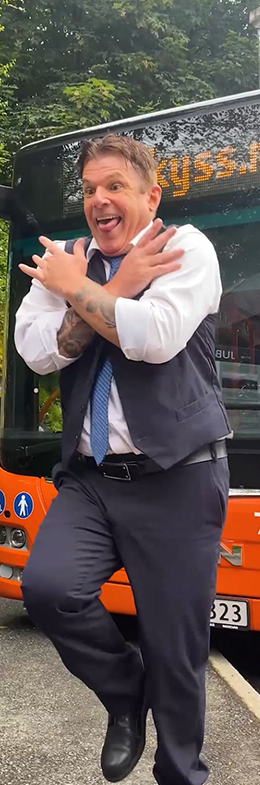
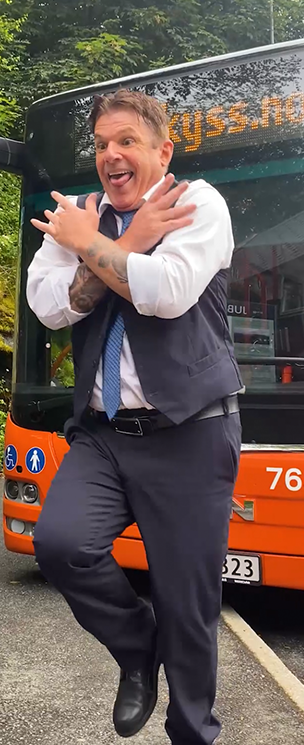
Om Rob: mer luft pa sidene, mindre over hodet

diff --git a/om.html b/om.html
@@ -18,7 +18,7 @@
   <link rel="preconnect" href="https://fonts.googleapis.com" />
   <link rel="preconnect" href="https://fonts.gstatic.com" crossorigin />
   <link href="https://fonts.googleapis.com/css2?family=Anton&family=Inter:wght@400;500;600;700;800&display=swap" rel="stylesheet" />
-  <link rel="stylesheet" href="styles.css?v=10" />
+  <link rel="stylesheet" href="styles.css?v=11" />
 </head>
 <body>
   <!-- ===================== HEADER ===================== -->
@@ -49,7 +49,7 @@
         <div class="about-split">
           <figure class="about-media">
             <div class="about-photo">
-              <img src="images/rob.png" alt="Rob fra NorwayRob foran Skyss-bussen i Bergen" width="260" height="785" />
+              <img src="images/rob.png" alt="Rob fra NorwayRob foran Skyss-bussen i Bergen" width="304" height="745" />
             </div>
             <span class="photo-badge"><span class="dot" aria-hidden="true"></span> Kjent fra TikTok</span>
           </figure>

diff --git a/index.html b/index.html
@@ -34,7 +34,7 @@
   <link rel="preconnect" href="https://fonts.gstatic.com" crossorigin />
   <link rel="preload" as="image" href="images/hero.png" fetchpriority="high" />
   <link href="https://fonts.googleapis.com/css2?family=Anton&family=Inter:wght@400;500;600;700;800&display=swap" rel="stylesheet" />
-  <link rel="stylesheet" href="styles.css?v=10" />
+  <link rel="stylesheet" href="styles.css?v=11" />
 </head>
 <body>
   <!-- ===================== HEADER ===================== -->

diff --git a/personvern.html b/personvern.html
@@ -13,7 +13,7 @@
   <link rel="preconnect" href="https://fonts.googleapis.com" />
   <link rel="preconnect" href="https://fonts.gstatic.com" crossorigin />
   <link href="https://fonts.googleapis.com/css2?family=Anton&family=Inter:wght@400;500;600;700;800&display=swap" rel="stylesheet" />
-  <link rel="stylesheet" href="styles.css?v=10" />
+  <link rel="stylesheet" href="styles.css?v=11" />
 </head>
 <body>
   <!-- ===================== HEADER ===================== -->

diff --git a/vilkar.html b/vilkar.html
@@ -13,7 +13,7 @@
   <link rel="preconnect" href="https://fonts.googleapis.com" />
   <link rel="preconnect" href="https://fonts.gstatic.com" crossorigin />
   <link href="https://fonts.googleapis.com/css2?family=Anton&family=Inter:wght@400;500;600;700;800&display=swap" rel="stylesheet" />
-  <link rel="stylesheet" href="styles.css?v=10" />
+  <link rel="stylesheet" href="styles.css?v=11" />
 </head>
 <body>
   <!-- ===================== HEADER ===================== -->

diff --git a/styles.css b/styles.css
@@ -526,7 +526,7 @@ input[type="date"] { color-scheme: dark; }
   aspect-ratio: 1 / 2;
   background: var(--card);
 }
-.about-photo img { width: 100%; height: 100%; object-fit: cover; object-position: center 18%; display: block; }
+.about-photo img { width: 100%; height: 100%; object-fit: cover; object-position: center 22%; display: block; }
 .about-photo::after {
   content: "";
   position: absolute; inset: 0; z-index: 1;
